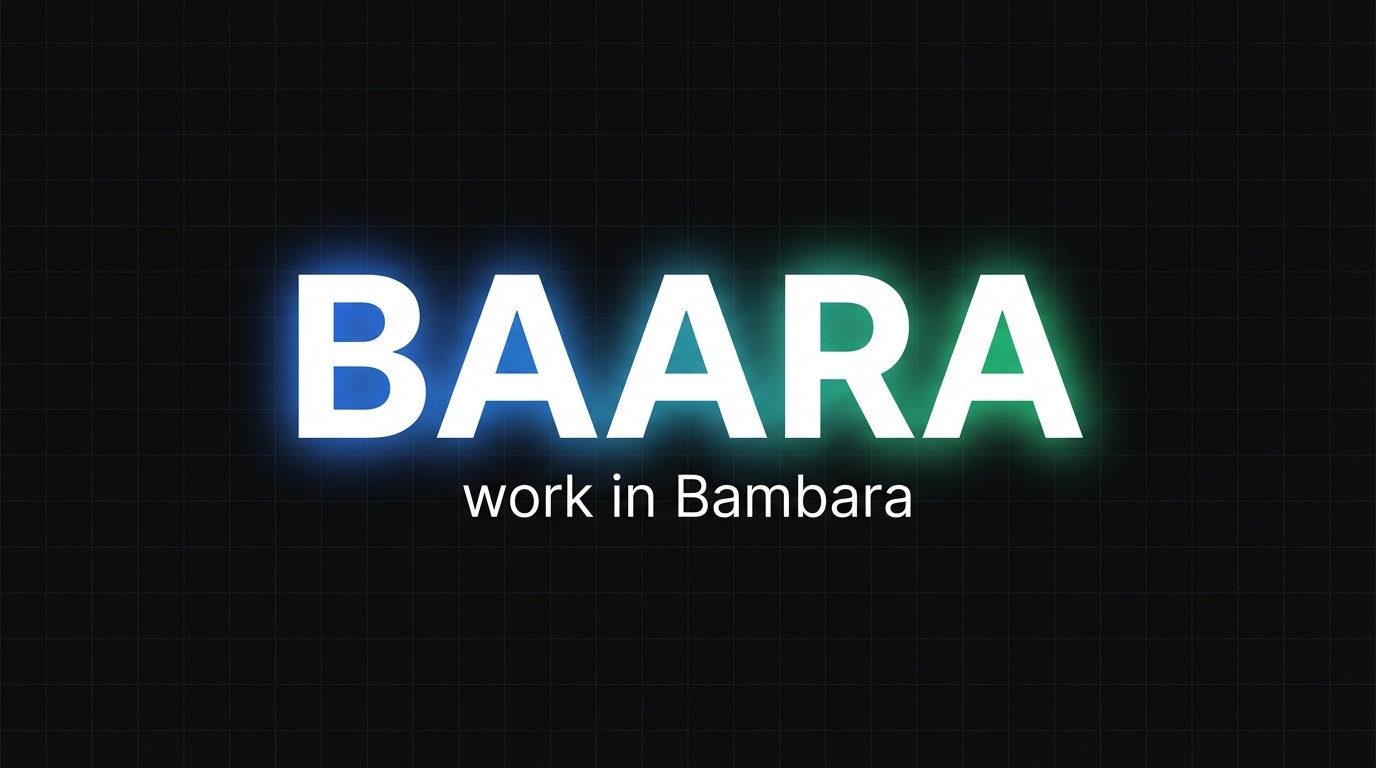
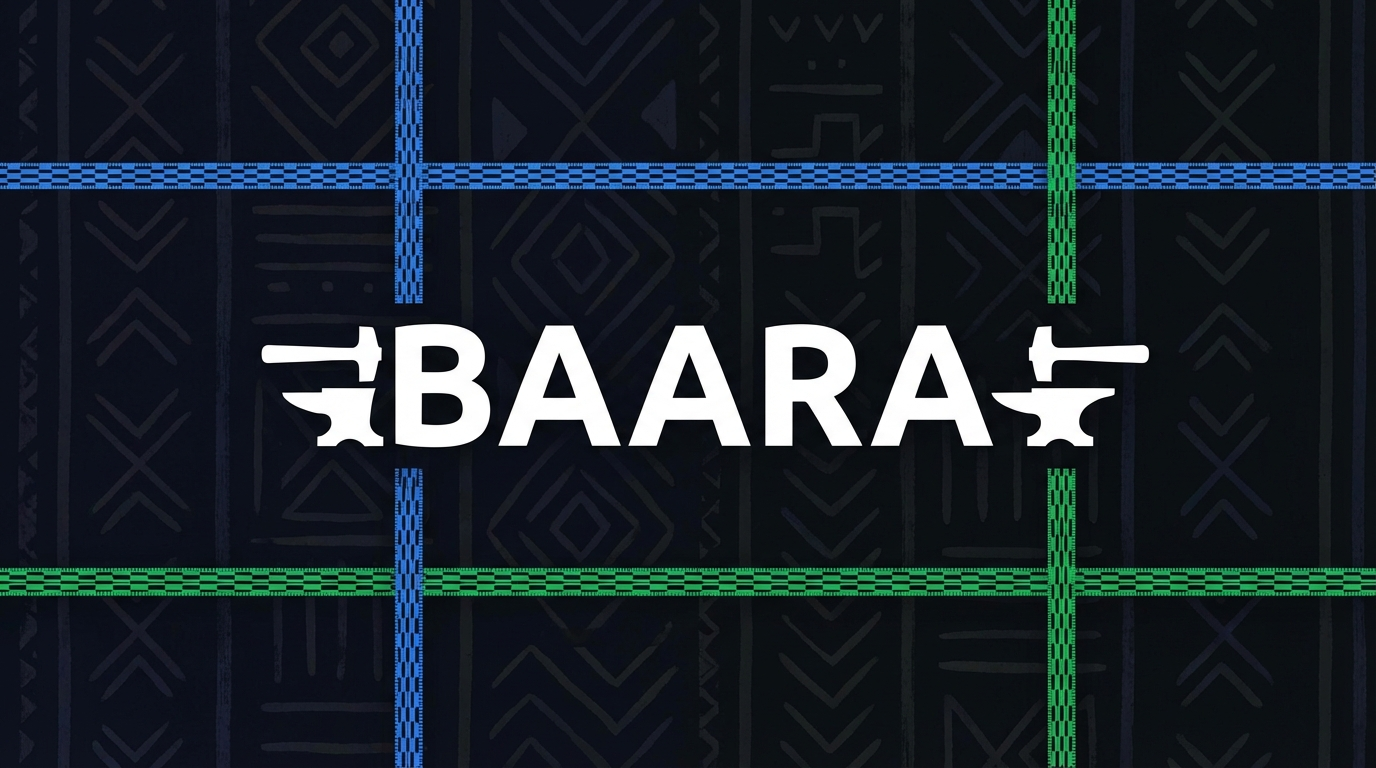
art+docs: Africa-inspired branding + professional README for public release
- Banner: Mandinka mudcloth patterns, iron anvil icons, kente accent lines
- Logo: B mark formed from blacksmith hammer + anvil, geometric border
- README: complete rewrite for public publishing — clean sections,
  navigation links, architecture diagram, feature highlights,
  security summary, development guide

diff --git a/README.md b/README.md
@@ -1,18 +1,136 @@
 <p align="center">
-  <img src="assets/banner.png" alt="Baara Banner" width="100%">
+  <img src="assets/banner.png" alt="Baara" width="100%">
 </p>
 
 <p align="center">
-  <img src="assets/logo.png" alt="Baara Logo" width="80">
+  <img src="assets/logo.png" alt="Baara" width="80">
 </p>
-
-<h1 align="center">Baara</h1>
 
 <p align="center">
-  <em>"Baara" means "work" in Mandinka.</em>
+  <strong>Baara</strong> — <em>"work" in Mandinka</em>
 </p>
 
-An agentic, chat-first task execution system built on the Claude Agent SDK. Talk to Claude in natural language to create, run, and manage tasks -- or use the CLI and cron scheduler. Priority queues, failure triage, and at-least-once delivery semantics. Runs as a single binary on a Mac mini.
+<p align="center">
+  An agentic task execution system powered by the Claude Agent SDK.<br>
+  Chat-first interface. Priority queues. Failure triage. Built for personal automation.
+</p>
+
+<p align="center">
+  <a href="#quick-start">Quick Start</a> •
+  <a href="#features">Features</a> •
+  <a href="#cli">CLI</a> •
+  <a href="#api">API</a> •
+  <a href="#architecture">Architecture</a> •
+  <a href="LICENSE">License</a>
+</p>
+
+---
+
+## Quick Start
+
+```bash
+# Install dependencies
+bun install
+
+# Configure (subscription mode — no API key needed)
+cp .env.example .env
+
+# Start the server
+bun start
+# → http://localhost:3000
+```
+
+Open the web UI, type a message, and Baara handles the rest:
+
+> *"Create a task that checks my email every morning at 6am"*
+
+Claude creates the task, sets the cron schedule, picks the right tools, and confirms — all through natural language.
+
+---
+
+## Features
+
+### Chat-First Interface
+
+Talk to Claude in natural language. Baara exposes **19 MCP tools** via an in-process server — Claude picks the right tool for every request. Responses stream in real-time via SSE.
+
+- **Slash command autocomplete** — type `/` for 153+ discovered skills with Tab completion
+- **Plan mode** — toggle structured planning before execution
+- **Session persistence** — conversations survive page reloads
+- **Context-aware prompts** — Claude knows your task count, failures, and queue state
+
+### Task Management
+
+- **3-step creation wizard** — Basics → Execution → Schedule & Tools
+- **Per-task tool selection** — choose which tools (WebSearch, Bash, Read, etc.) each task can use
+- **Cron scheduling** — presets or custom expressions with human-readable preview
+- **Run-once guard** — prevents duplicate execution of the same task
+- **Configurable system prompt** — customize Claude's instructions per-instance
+
+### Execution Engine
+
+- **Dual execution modes** — Direct (immediate) or Queued (priority pipeline)
+- **Priority queues** — P0 (critical) through P3 (background), FIFO within tier
+- **At-least-once delivery** — configurable retry with exponential backoff
+- **Failure triage** — exhausted retries flag jobs for human attention
+- **Health monitoring** — detects slow and unresponsive jobs
+- **JSONL execution logs** — append-only, streamable, `jq`-compatible
+
+### Three Interfaces
+
+| Interface | Description |
+|-----------|-------------|
+| **Web UI** | Chat + collapsible context panel (tasks, jobs, queues, logs) |
+| **CLI** | `baara tasks`, `baara jobs`, `baara logs`, `baara status` |
+| **Cron** | Scheduled execution via Croner — fires automatically |
+
+All three share the same service layer. No duplicated logic.
+
+---
+
+## CLI
+
+```bash
+baara tasks list                     # List all tasks
+baara tasks create --name <n> --prompt <p> [--cron <expr>]
+baara tasks run <name>               # Execute immediately
+baara tasks toggle <name>            # Enable/disable
+
+baara jobs list <task>               # Job history
+baara jobs triage                    # Failed jobs needing attention
+baara jobs retry <job-id>            # Re-dispatch
+
+baara logs                           # Execution logs
+baara logs --level error             # Filter by level
+baara logs --job <id>                # Per-job logs
+
+baara commands list                  # Discovered skills + plugins
+baara commands search "email"        # Search by keyword
+baara status                         # System overview
+```
+
+---
+
+## API
+
+| Method | Endpoint | Description |
+|--------|----------|-------------|
+| `POST` | `/api/chat` | Chat with Claude (SSE stream) |
+| `GET` | `/api/tasks` | List tasks |
+| `POST` | `/api/tasks` | Create task |
+| `POST` | `/api/tasks/:id/run` | Execute immediately |
+| `POST` | `/api/tasks/:id/submit` | Dispatch to queue |
+| `GET` | `/api/tasks/:id/jobs` | Job history |
+| `GET` | `/api/jobs/triage` | Triaged jobs |
+| `GET` | `/api/queues` | Queue status |
+| `GET` | `/api/logs` | Execution logs |
+| `GET` | `/api/projects` | Project management |
+| `GET` | `/api/commands` | Discovered skills + commands |
+| `GET` | `/api/health` | Health check |
+
+---
+
+## Architecture
 
 ```
 ┌──────────────────────────────────────────────────────────┐
@@ -20,156 +138,82 @@ An agentic, chat-first task execution system built on the Claude Agent SDK. Talk
 │                                                          │
 │  ┌─────────────────────┐  ┌─────────────────────────┐   │
 │  │  Chat (Claude AI)    │  │  Context Panel          │   │
-│  │  Natural language    │  │  (collapsible)          │   │
-│  │  task management     │  │                         │   │
-│  │                      │  │  Tasks / Jobs / Queues  │   │
-│  │  "Create a task..."  │  │  Auto-updates on tool   │   │
-│  │  ⚡ create_task      │  │  calls                  │   │
-│  │  ✓ Created!          │  │                         │   │
+│  │  19 MCP tools        │  │  Tasks / Jobs / Queues  │   │
+│  │  SSE streaming       │  │  Logs / Triage          │   │
 │  └─────────────────────┘  └─────────────────────────┘   │
 │                                                          │
-│  14 Baara Tools (MCP) ──► Services ──► SQLite            │
-│  CLI (baara) ────────────►                               │
-│  Cron Scheduler ─────────►                               │
+│  Services ──► Dispatcher ──► Executor ──► SQLite         │
+│  CLI ────────►                ↕                           │
+│  Cron ───────►          Queue Manager                    │
 └──────────────────────────────────────────────────────────┘
 ```
 
-## Quick Start
-
-```bash
-# Install
-bun install
-
-# Configure
-cp .env.example .env
-# Default: subscription mode (uses Claude CLI, no API key needed)
-# Optional: set BAARA_AUTH_MODE=api_key and add ANTHROPIC_API_KEY
-
-# Start server (http://0.0.0.0:3000)
-bun start
-
-# Or use the CLI
-bun run src/cli/index.ts tasks list
-bun run src/cli/index.ts status
-```
-
-## Features
-
-- **Chat-first UI** — Claude-powered agentic chat. Describe what you want in natural language and Claude calls Baara tools to make it happen.
-- **14 custom tools** — Exposed via in-process MCP server (create_task, run_task, list_jobs, etc.). Claude picks the right tool for every request.
-- **SSE streaming** — Real-time streamed responses from Claude, including tool use and results.
-- **Dual auth modes** — Use your Claude subscription (free within limits) or an API key (per-token billing).
-- **Collapsible context panel** — Chat is the primary interface; tasks, jobs, queues, and logs live in a collapsible side panel that auto-updates on tool calls.
-- **Multi-step task creation wizard** — 3-step wizard (Basics, Execution, Schedule & Tools) with queue selection, cron presets, and "Create & Run Now" option.
-- **Plan mode** — Toggle plan mode in chat for structured execution planning. Claude presents a numbered plan before taking action.
-- **Configurable system prompt** — Custom system prompt saved in settings, merged into every chat context.
-- **Per-task tool selection** — Choose which tools (WebSearch, Bash, Read, Write, etc.) each task is allowed to use.
-- **JSONL execution logging** — Every task execution is logged to `~/.nexus/logs/execution.jsonl` with level, timestamp, task name, and job ID. Viewable in the LOGS tab, via API, or CLI (`baara logs`).
-- **Priority queues** — P0 (critical) through P3 (background) with FIFO tie-breaking.
-- **Dual execution modes** — Queued (full pipeline) or Direct (immediate, ideal for Mac mini).
-- **Agent SDK integration** — Built-in tools (WebSearch, WebFetch, Bash), MCP servers, subagents.
-- **Failure triage** — Failed jobs flagged for human attention after max retries exhausted.
-- **Health monitoring** — Detects slow/unresponsive jobs based on per-task timeout thresholds.
-- **Three interfaces** — Web UI (chat + context panel), CLI (`baara`), and scheduled cron. All share the same service layer.
-
-## Authentication
-
-Baara supports two authentication modes:
-
-### Subscription Mode (default)
-Uses your Claude Pro/Max/Team subscription via the Claude Code CLI.
-No API key needed -- free within your subscription limits.
-
-### API Key Mode
-Uses `ANTHROPIC_API_KEY` for per-token billing.
-Set `BAARA_AUTH_MODE=api_key` in `.env`.
-
-## Chat API
-
-`POST /api/chat` -- SSE streaming endpoint
-
-**Request:**
-```json
-{ "message": "Create a task that..." }
-```
-
-**Response:** `text/event-stream` with events:
-| Event type | Description |
-|------------|-------------|
-| `text` | Claude's response text (streaming) |
-| `tool_use` | Claude calling a Baara tool |
-| `tool_result` | Tool execution result |
-| `result` | Final response with usage stats |
-| `done` | Stream complete |
-
-Claude has access to 14 Baara tools via an in-process MCP server, including `create_task`, `run_task`, `list_tasks`, `list_jobs`, `get_queue_status`, and more. Tools call service functions directly -- no subprocess or HTTP self-calls.
-
-## CLI Reference
-
-```bash
-baara tasks list                    # List all tasks
-baara tasks create --name <n> --prompt <p> [--cron <expr>] [--type agent_sdk|raw_code]
-baara tasks run <name>              # Execute immediately (direct mode)
-baara tasks submit <name>           # Dispatch to queue
-baara tasks toggle <name>           # Enable/disable
-
-baara jobs list <task>              # Job history
-baara jobs triage                   # Failed jobs needing attention
-baara jobs retry <job-id>           # Re-dispatch a triaged job
-
-baara queues list                   # Queue depths
-baara status                        # Full system overview
-baara templates list                # Browse templates
-baara logs                          # View execution logs
-baara logs --level error            # Filter by level
-baara logs --job <id>               # Filter by job ID
-```
-
-## API Endpoints
-
-| Method | Path | Description |
-|--------|------|-------------|
-| POST | `/api/chat` | Chat with Claude (SSE stream) |
-| GET | `/api/tasks` | List tasks |
-| POST | `/api/tasks` | Create task |
-| POST | `/api/tasks/:id/run` | Execute immediately |
-| POST | `/api/tasks/:id/submit` | Dispatch to queue |
-| GET | `/api/tasks/:id/jobs` | Job history |
-| GET | `/api/jobs/triage` | Triaged jobs |
-| GET | `/api/queues` | Queue status |
-| GET | `/api/logs` | System-wide execution logs |
-| GET | `/api/jobs/:id/logs` | Per-job execution logs |
-| GET | `/api/status` | System overview |
-| GET | `/api/health` | Health check |
-
-## Data Storage
-
-All Baara data lives under `~/.nexus/` (configurable via `NEXUS_DIR` env var):
+### Data Storage
 
 ```
 ~/.nexus/
-├── baara.db              # SQLite database (tasks, jobs, queues, sessions)
+├── baara.db                # SQLite — tasks, jobs, queues, projects
 ├── logs/
-│   └── execution.jsonl   # Append-only execution logs (JSONL format)
-└── ...
+│   └── execution.jsonl     # Append-only execution logs
+├── sessions/               # Chat session data
+└── briefings/              # Scheduled task output
 ```
 
-- **Database** — SQLite via `bun:sqlite`. Override location with `DB_PATH` env var.
-- **Execution logs** — One JSON object per line with `ts`, `level`, `msg`, `taskName`, `jobId` fields. Queryable via `GET /api/logs`, `GET /api/jobs/:id/logs`, or `baara logs` CLI.
-
-## Tech Stack
+### Tech Stack
 
 | Component | Choice |
 |-----------|--------|
-| Runtime | Bun |
-| Web server | Hono |
-| Database | bun:sqlite (embedded) |
-| Scheduler | Croner |
-| AI execution | Claude Agent SDK |
-| AI chat | Claude API (streaming via SSE) |
-| Tool integration | In-process MCP server (Agent SDK) |
+| Runtime | [Bun](https://bun.sh) |
+| Web Framework | [Hono](https://hono.dev) |
+| Database | bun:sqlite |
+| Scheduler | [Croner](https://github.com/Hexagon/croner) |
+| AI | [Claude Agent SDK](https://docs.anthropic.com/en/docs/agent-sdk) |
 | Frontend | Vanilla JS (no build step) |
+| Tests | [Playwright](https://playwright.dev) |
+
+---
+
+## Authentication
+
+**Subscription mode** (default) — uses your Claude Pro/Max/Team subscription via the Claude Code CLI. No API key needed.
+
+**API key mode** — set `BAARA_AUTH_MODE=api_key` and `ANTHROPIC_API_KEY` in `.env` for per-token billing.
+
+---
+
+## Security
+
+- API key authentication (optional `BAARA_API_KEY`)
+- Exact-origin CORS allowlist
+- CSP + X-Frame-Options + X-Content-Type-Options headers
+- Rate limiting (10 calls/min on execution endpoints)
+- Input validation with clamped timeouts, retries, and budgets
+- Graceful shutdown with WAL checkpoint
+- Crash recovery for orphaned jobs
+
+See [`docs/security/`](docs/security/) for the full security review.
+
+---
+
+## Development
+
+```bash
+bun start                    # Start server
+bunx tsc --noEmit            # Typecheck
+bunx playwright test         # Run tests (39+ test cases)
+baara logs --follow          # Tail execution logs
+```
+
+See [CLAUDE.md](CLAUDE.md) for architecture details and conventions.
+
+---
 
 ## License
 
-MIT
+[MIT](LICENSE)
+
+---
+
+<p align="center">
+  <sub>Built with the Claude Agent SDK. Inspired by Mandinka craftsmanship.</sub>
+</p>
